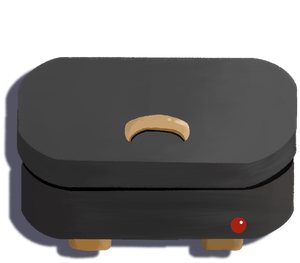
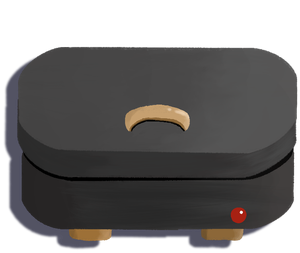
Open waffle machine: no handle, the standing lid a complete round-cornered rectangle, the two waffles from the painted version (owner, 25 October 15:40); waffleHeight 0.56 for the 300 x 253 canvas

diff --git a/Assets/Scripts/Food/IceCreamStation.cs b/Assets/Scripts/Food/IceCreamStation.cs
@@ -40,7 +40,7 @@ public class IceCreamStation : MonoBehaviour
     public Rect smallHolderRect;
     public Vector2 smallBuildPoint = new Vector2(0.27f, 1.22f);
     [Header("Waffle machine on the table (owner, 25 October 2026: beside the cone stack, the cast-iron one, smaller)")]
-    public float waffleHeight = 0.58f;                        // its height as a share of the box picture's height (owner, 25 October afternoon: bigger; was 0.38; 0.58 since the owner's own drawing, whose canvas has more air above the machine)
+    public float waffleHeight = 0.56f;                       // its height as a share of the box picture's height (owner, 25 October afternoon: bigger; was 0.38; 0.58 since the owner's own drawing, whose canvas has more air above the machine)
     public float waffleGap = 0.02f;                           // gap above the cone row, a fraction of the box picture's height
     public float waffleShift = -0.01f;                      // sideways from the row's centre, a fraction of the box width (owner, 25 October: "move it to the left a little", centred on the six cones)
     public const int WafflesPerSession = 2; public const float WaffleSeconds = 8f;   // one session bakes two cones in 8 s (owner, 25 October)
